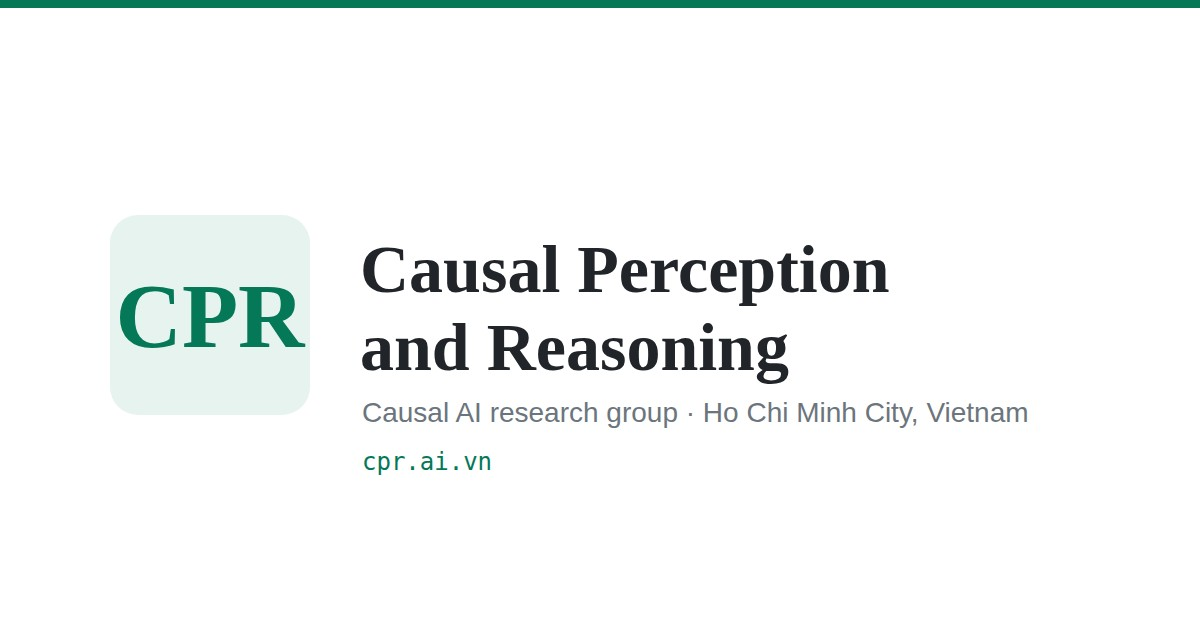
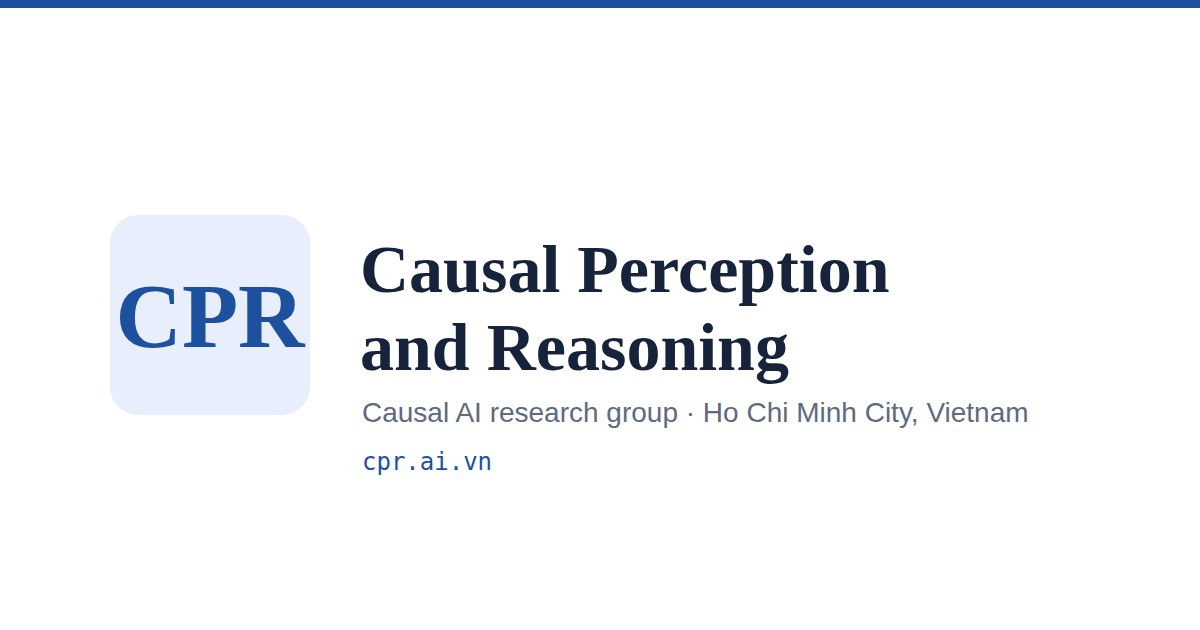
Retheme site to a blue academic palette (#83)
* Retheme to a blue academic palette

Retint the whole token system from the warm emerald/terracotta scheme
to a navy-blue academic palette inspired by the DILAB reference:
- Light: white ground, royal-blue accent (#1e50a0), cool slate text,
  deep-blue footer slab, warm-orange secondary accent.
- Dark: cool navy ground (#0f1826), lighter blue accent, cool slate
  surfaces and text.
- Update the dark theme-color meta on every page and retint favicon.svg.

Palette verified WCAG AA in both themes. Brand raster assets (the CR
logo and banner/og-image) are still emerald and need separate
regeneration.

Claude-Session: https://claude.ai/code/session_0156jcmTThmSAqNkExB7rGmw

* Blue-theme brand assets and whiten light surfaces

- Recreate the CR logo in blue: trace the original monogram to a vector
  (logo.svg) and rasterize a crisp blue logo.png; header and hero now
  use the SVG. The white logo_full_dark.png still works on the new
  deep-blue footer, so it is unchanged.
- Regenerate the OG banner (og-image.svg + banner.jpg) in the blue
  palette.
- Whiten the light-theme surfaces (near-white cards, lighter cool
  borders) for a cleaner white ground, keeping the blue accent.

Claude-Session: https://claude.ai/code/session_0156jcmTThmSAqNkExB7rGmw

---------

Changed region(s): [[0.0, 0.0, 1.0, 0.0302], [0.0925, 0.4524, 0.2467, 0.573], [0.3083, 0.7238, 0.4008, 0.754]]

diff --git a/css/variables.css b/css/variables.css
@@ -13,55 +13,55 @@
   /* Hint native UI (scrollbars, form controls) to match the theme */
   color-scheme: light;
 
-  /* ── Colors (Light) ─────────────────────────────────── */
+  /* ── Colors (Light) — blue academic palette ─────────── */
   --color-background: #ffffff;
-  --color-surface: #f4f2ed;
-  --color-surface-alt: #fbfaf7;
-  --color-border: #e2ded5;
-  --color-border-grid: #e2ded5;
-  --color-text-primary: #241606;
-  --color-text-secondary: #5c4f3d;
-  --color-text-muted: #6e6451;
+  --color-surface: #f5f7fb;
+  --color-surface-alt: #fbfcfe;
+  --color-border: #e4e9f1;
+  --color-border-grid: #e4e9f1;
+  --color-text-primary: #17233a;
+  --color-text-secondary: #46536b;
+  --color-text-muted: #5f6a80;
 
-  /* Accent (emerald) — `accent` for non-text & large bold;
+  /* Accent (royal blue) — `accent` for non-text & large bold;
      `accent-text` is the AA-safe variant for body-sized links. */
-  --color-accent: #047857;
-  --color-accent-text: #065f46;
-  --color-accent-hover: #065f46;
-  --color-accent-glow: rgba(4, 120, 87, 0.18);
+  --color-accent: #1e50a0;
+  --color-accent-text: #1a4794;
+  --color-accent-hover: #163c7c;
+  --color-accent-glow: rgba(30, 80, 160, 0.12);
   --color-accent-contrast: #ffffff; /* readable text laid over --color-accent */
 
-  /* Secondary accent (warm terracotta) — the counterpart to the emerald
-     primary. Use sparingly for structure/logic touches.
+  /* Secondary accent (warm orange) — the counterpart to the blue
+     primary (mirrors the active-state accent on the reference site).
      -text variant is AA-safe on light surfaces for small text. */
-  --color-accent-2: #c25a3c;
-  --color-accent-2-text: #a8482e;
-  --color-accent-2-glow: rgba(194, 90, 60, 0.18);
+  --color-accent-2: #dd6a3c;
+  --color-accent-2-text: #b0512b;
+  --color-accent-2-glow: rgba(221, 106, 60, 0.16);
 
   /* Legacy aliases (kept so older references resolve to the token) */
   --color-accent-start: var(--color-accent);
   --color-accent-end: var(--color-accent);
 
-  /* Interactive */
-  --color-button-bg: #241606;
+  /* Interactive — primary button carries the blue accent */
+  --color-button-bg: #1e50a0;
   --color-button-text: #ffffff;
-  --color-button-hover: #1a0f04;
-  --color-button-secondary-bg: #f4f2ed;
-  --color-button-secondary-text: #241606;
-  --color-button-secondary-hover: #e9e5dc;
-  --color-button-outline-border: #e2ded5;
-  --color-button-outline-hover: #f4f2ed;
+  --color-button-hover: #163c7c;
+  --color-button-secondary-bg: #f5f7fb;
+  --color-button-secondary-text: #17233a;
+  --color-button-secondary-hover: #e9eef6;
+  --color-button-outline-border: #e4e9f1;
+  --color-button-outline-hover: #f5f7fb;
 
   /* Header */
   --color-header-bg: rgba(255, 255, 255, 0.92);
   --color-header-blur: rgba(255, 255, 255, 0.65);
 
-  /* Footer — permanent dark slab in light theme */
-  --color-footer-bg: #1a1a1a;
-  --color-footer-text: rgba(255, 255, 255, 0.7);
+  /* Footer — deep-blue slab in light theme */
+  --color-footer-bg: #1c3f77;
+  --color-footer-text: rgba(255, 255, 255, 0.72);
   --color-footer-text-strong: #ffffff;
   --color-footer-text-muted: rgba(255, 255, 255, 0.5);
-  --color-footer-border: rgba(255, 255, 255, 0.15);
+  --color-footer-border: rgba(255, 255, 255, 0.16);
 
   /* On-accent text (avatars, skip-link, badges over accent) */
   --color-on-accent: #ffffff;
@@ -135,9 +135,9 @@
   --transition-slow: 0.35s ease;
 
   /* ── Elevation / Shadows (theme-aware) ──────────────── */
-  --shadow-sm: 0 1px 2px rgba(36, 22, 6, 0.06);
-  --shadow-md: 0 4px 12px rgba(36, 22, 6, 0.08);
-  --shadow-lg: 0 12px 32px rgba(36, 22, 6, 0.12);
+  --shadow-sm: 0 1px 2px rgba(23, 35, 58, 0.06);
+  --shadow-md: 0 4px 12px rgba(23, 35, 58, 0.08);
+  --shadow-lg: 0 12px 32px rgba(23, 35, 58, 0.12);
 
   /* ── Sizing ─────────────────────────────────────────── */
   --header-height: 4rem;
@@ -172,11 +172,11 @@
   --feature-max-width: 75rem;
 
   /* ── Sunken surface (alternating editorial bands) ───── */
-  --color-surface-sunken: #efece4;
+  --color-surface-sunken: #f1f4f9;
 
   /* ── Causal-DAG motif tokens ────────────────────────── */
-  --dag-node-perception: var(--color-accent);   /* nodes = Perception (emerald) */
-  --dag-edge-reasoning: var(--color-accent-2);  /* edges = Reasoning (terracotta) */
+  --dag-node-perception: var(--color-accent);   /* nodes = Perception (blue) */
+  --dag-edge-reasoning: var(--color-accent-2);  /* edges = Reasoning (orange) */
   --dag-node-size: 0.875rem;
   --dag-node-size-lg: 1.25rem;
   --dag-edge-width: 2px;
@@ -193,46 +193,46 @@
 [data-theme="dark"] {
   color-scheme: dark;
 
-  --color-background: #16110b;
-  --color-surface: #1f1810;
-  --color-surface-alt: #261e14;
-  --color-border: #463827;
-  --color-border-grid: #463827;
-  --color-text-primary: #f3ece0;
-  --color-text-secondary: #c3b6a1;
-  --color-text-muted: #9a8c75;
+  --color-background: #0f1826;
+  --color-surface: #172231;
+  --color-surface-alt: #1e2b3d;
+  --color-border: #2c3a4e;
+  --color-border-grid: #2c3a4e;
+  --color-text-primary: #e9eef6;
+  --color-text-secondary: #aab7c9;
+  --color-text-muted: #7e8ca1;
 
-  --color-accent: #34d399;
-  --color-accent-text: #6ee7b7;
-  --color-accent-hover: #6ee7b7;
-  --color-accent-glow: rgba(52, 211, 153, 0.22);
-  --color-accent-contrast: #16110b; /* dark text reads on lightened accent */
+  --color-accent: #5b9df2;
+  --color-accent-text: #9ec5ff;
+  --color-accent-hover: #bcd6ff;
+  --color-accent-glow: rgba(91, 157, 242, 0.24);
+  --color-accent-contrast: #0f1826; /* dark text reads on lightened accent */
 
-  /* Secondary accent (warm terracotta) — dark-theme values */
-  --color-accent-2: #e8895f;
-  --color-accent-2-text: #f0a07a;
-  --color-accent-2-glow: rgba(232, 137, 95, 0.22);
+  /* Secondary accent (warm orange) — dark-theme values */
+  --color-accent-2: #ef8a5c;
+  --color-accent-2-text: #f4a37c;
+  --color-accent-2-glow: rgba(239, 138, 92, 0.24);
 
-  --color-button-bg: #34d399;
-  --color-button-text: #16110b;
-  --color-button-hover: #6ee7b7;
-  --color-button-secondary-bg: #1f1810;
-  --color-button-secondary-text: #f3ece0;
-  --color-button-secondary-hover: #261e14;
-  --color-button-outline-border: #352b1e;
-  --color-button-outline-hover: #1f1810;
+  --color-button-bg: #5b9df2;
+  --color-button-text: #0f1826;
+  --color-button-hover: #82b4f7;
+  --color-button-secondary-bg: #172231;
+  --color-button-secondary-text: #e9eef6;
+  --color-button-secondary-hover: #1e2b3d;
+  --color-button-outline-border: #2c3a4e;
+  --color-button-outline-hover: #172231;
 
-  --color-header-bg: rgba(22, 17, 11, 0.9);
-  --color-header-blur: rgba(22, 17, 11, 0.6);
+  --color-header-bg: rgba(15, 24, 38, 0.9);
+  --color-header-blur: rgba(15, 24, 38, 0.6);
 
   /* Footer reads as a raised surface in dark theme */
-  --color-footer-bg: #1f1810;
-  --color-footer-text: rgba(243, 236, 224, 0.75);
-  --color-footer-text-strong: #f3ece0;
-  --color-footer-text-muted: rgba(243, 236, 224, 0.5);
-  --color-footer-border: rgba(243, 236, 224, 0.12);
+  --color-footer-bg: #131d2c;
+  --color-footer-text: rgba(233, 238, 246, 0.75);
+  --color-footer-text-strong: #e9eef6;
+  --color-footer-text-muted: rgba(233, 238, 246, 0.5);
+  --color-footer-border: rgba(233, 238, 246, 0.12);
 
-  --color-on-accent: #16110b;
+  --color-on-accent: #0f1826;
 
   /* Shadows read poorly on dark — deepen them */
   --shadow-sm: 0 1px 2px rgba(0, 0, 0, 0.4);
@@ -242,7 +242,7 @@
   --hero-motif-opacity: 0.12;
 
   /* Sunken surface reads as a recess below the dark background */
-  --color-surface-sunken: #120d08;
+  --color-surface-sunken: #0a121e;
 
   --color-overlay: rgba(0, 0, 0, 0.82);
 }

diff --git a/index.html b/index.html
@@ -5,7 +5,7 @@
   <meta charset="UTF-8">
   <meta name="viewport" content="width=device-width, initial-scale=1.0">
   <meta name="theme-color" content="#ffffff" media="(prefers-color-scheme: light)">
-  <meta name="theme-color" content="#16110b" media="(prefers-color-scheme: dark)">
+  <meta name="theme-color" content="#0f1826" media="(prefers-color-scheme: dark)">
 
   <!-- Set theme before paint to avoid a flash of the wrong theme -->
   <script>
@@ -127,7 +127,7 @@
       <!-- About -->
       <header class="about fade-in">
         <div class="about__media">
-          <div class="about__logo"><img src="logo.png" alt="CPR logo"></div>
+          <div class="about__logo"><img src="logo.svg" alt="CPR logo"></div>
         </div>
         <div class="about__body">
           <h1 class="about__name">Causal Perception and Reasoning</h1>

diff --git a/js/site-config.js b/js/site-config.js
@@ -14,7 +14,7 @@ var SITE_CONFIG = {
        Paths are root-relative so they resolve from any depth
        (e.g. /members/vthuynh.html), on both localhost and the
        custom domain, which both serve from the site root. */
-    headerLogoSrc: '/logo.png',
+    headerLogoSrc: '/logo.svg',
     headerTitle: 'Causal Perception and Reasoning',
     /* Footer: full logo (the footer is a dark slab in both themes,
        so the light-on-dark logo is always valid) */

diff --git a/404.html b/404.html
@@ -5,7 +5,7 @@
     <meta charset="UTF-8">
     <meta name="viewport" content="width=device-width, initial-scale=1.0">
     <meta name="theme-color" content="#ffffff" media="(prefers-color-scheme: light)">
-    <meta name="theme-color" content="#16110b" media="(prefers-color-scheme: dark)">
+    <meta name="theme-color" content="#0f1826" media="(prefers-color-scheme: dark)">
 
     <!-- Set theme before paint to avoid a flash of the wrong theme -->
     <script>

diff --git a/achievements.html b/achievements.html
@@ -5,7 +5,7 @@
     <meta charset="UTF-8">
     <meta name="viewport" content="width=device-width, initial-scale=1.0">
     <meta name="theme-color" content="#ffffff" media="(prefers-color-scheme: light)">
-    <meta name="theme-color" content="#16110b" media="(prefers-color-scheme: dark)">
+    <meta name="theme-color" content="#0f1826" media="(prefers-color-scheme: dark)">
 
     <!-- Set theme before paint to avoid a flash of the wrong theme -->
     <script>

diff --git a/members.html b/members.html
@@ -5,7 +5,7 @@
     <meta charset="UTF-8">
     <meta name="viewport" content="width=device-width, initial-scale=1.0">
     <meta name="theme-color" content="#ffffff" media="(prefers-color-scheme: light)">
-    <meta name="theme-color" content="#16110b" media="(prefers-color-scheme: dark)">
+    <meta name="theme-color" content="#0f1826" media="(prefers-color-scheme: dark)">
 
     <!-- Set theme before paint to avoid a flash of the wrong theme -->
     <script>

diff --git a/members/vthuynh.html b/members/vthuynh.html
@@ -5,7 +5,7 @@
     <meta charset="UTF-8">
     <meta name="viewport" content="width=device-width, initial-scale=1.0">
     <meta name="theme-color" content="#ffffff" media="(prefers-color-scheme: light)">
-    <meta name="theme-color" content="#16110b" media="(prefers-color-scheme: dark)">
+    <meta name="theme-color" content="#0f1826" media="(prefers-color-scheme: dark)">
 
     <!-- Set theme before paint to avoid a flash of the wrong theme -->
     <script>

diff --git a/pain-presence.html b/pain-presence.html
@@ -5,7 +5,7 @@
     <meta charset="UTF-8">
     <meta name="viewport" content="width=device-width, initial-scale=1.0">
     <meta name="theme-color" content="#ffffff" media="(prefers-color-scheme: light)">
-    <meta name="theme-color" content="#16110b" media="(prefers-color-scheme: dark)">
+    <meta name="theme-color" content="#0f1826" media="(prefers-color-scheme: dark)">
 
     <!-- Set theme before paint to avoid a flash of the wrong theme -->
     <script>

diff --git a/projects.html b/projects.html
@@ -5,7 +5,7 @@
     <meta charset="UTF-8">
     <meta name="viewport" content="width=device-width, initial-scale=1.0">
     <meta name="theme-color" content="#ffffff" media="(prefers-color-scheme: light)">
-    <meta name="theme-color" content="#16110b" media="(prefers-color-scheme: dark)">
+    <meta name="theme-color" content="#0f1826" media="(prefers-color-scheme: dark)">
 
     <!-- Set theme before paint to avoid a flash of the wrong theme -->
     <script>

diff --git a/publications.html b/publications.html
@@ -5,7 +5,7 @@
     <meta charset="UTF-8">
     <meta name="viewport" content="width=device-width, initial-scale=1.0">
     <meta name="theme-color" content="#ffffff" media="(prefers-color-scheme: light)">
-    <meta name="theme-color" content="#16110b" media="(prefers-color-scheme: dark)">
+    <meta name="theme-color" content="#0f1826" media="(prefers-color-scheme: dark)">
 
     <!-- Set theme before paint to avoid a flash of the wrong theme -->
     <script>
